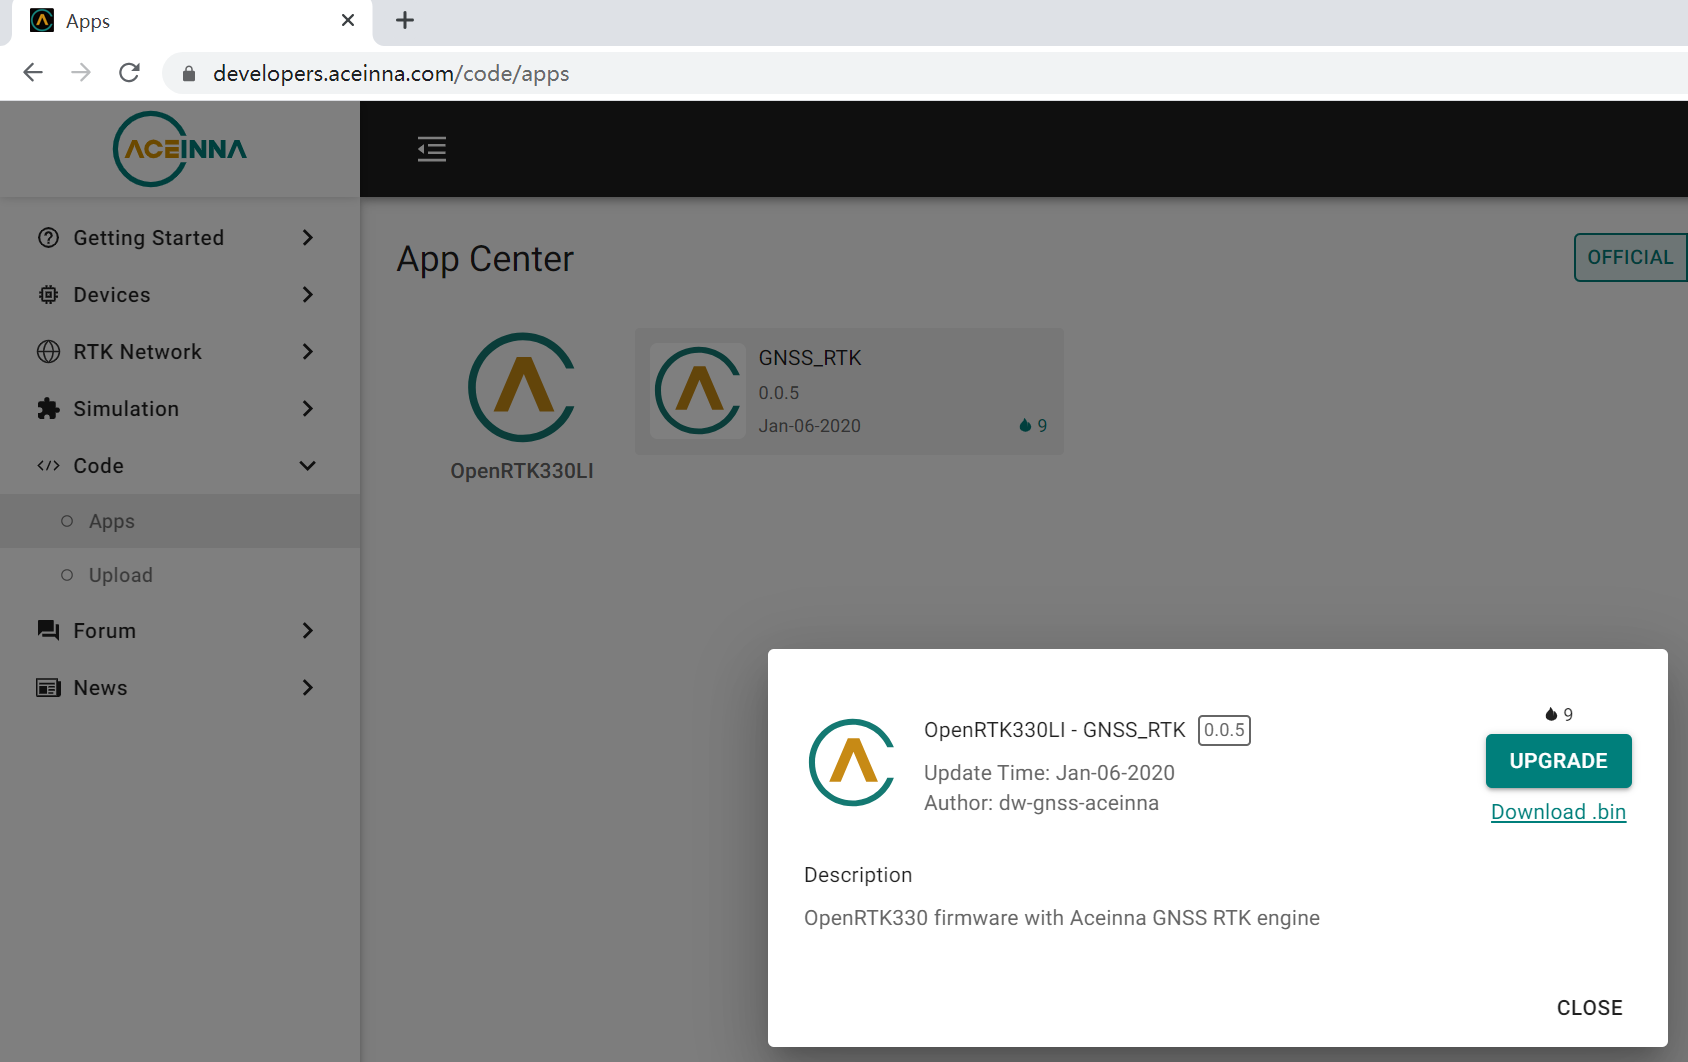
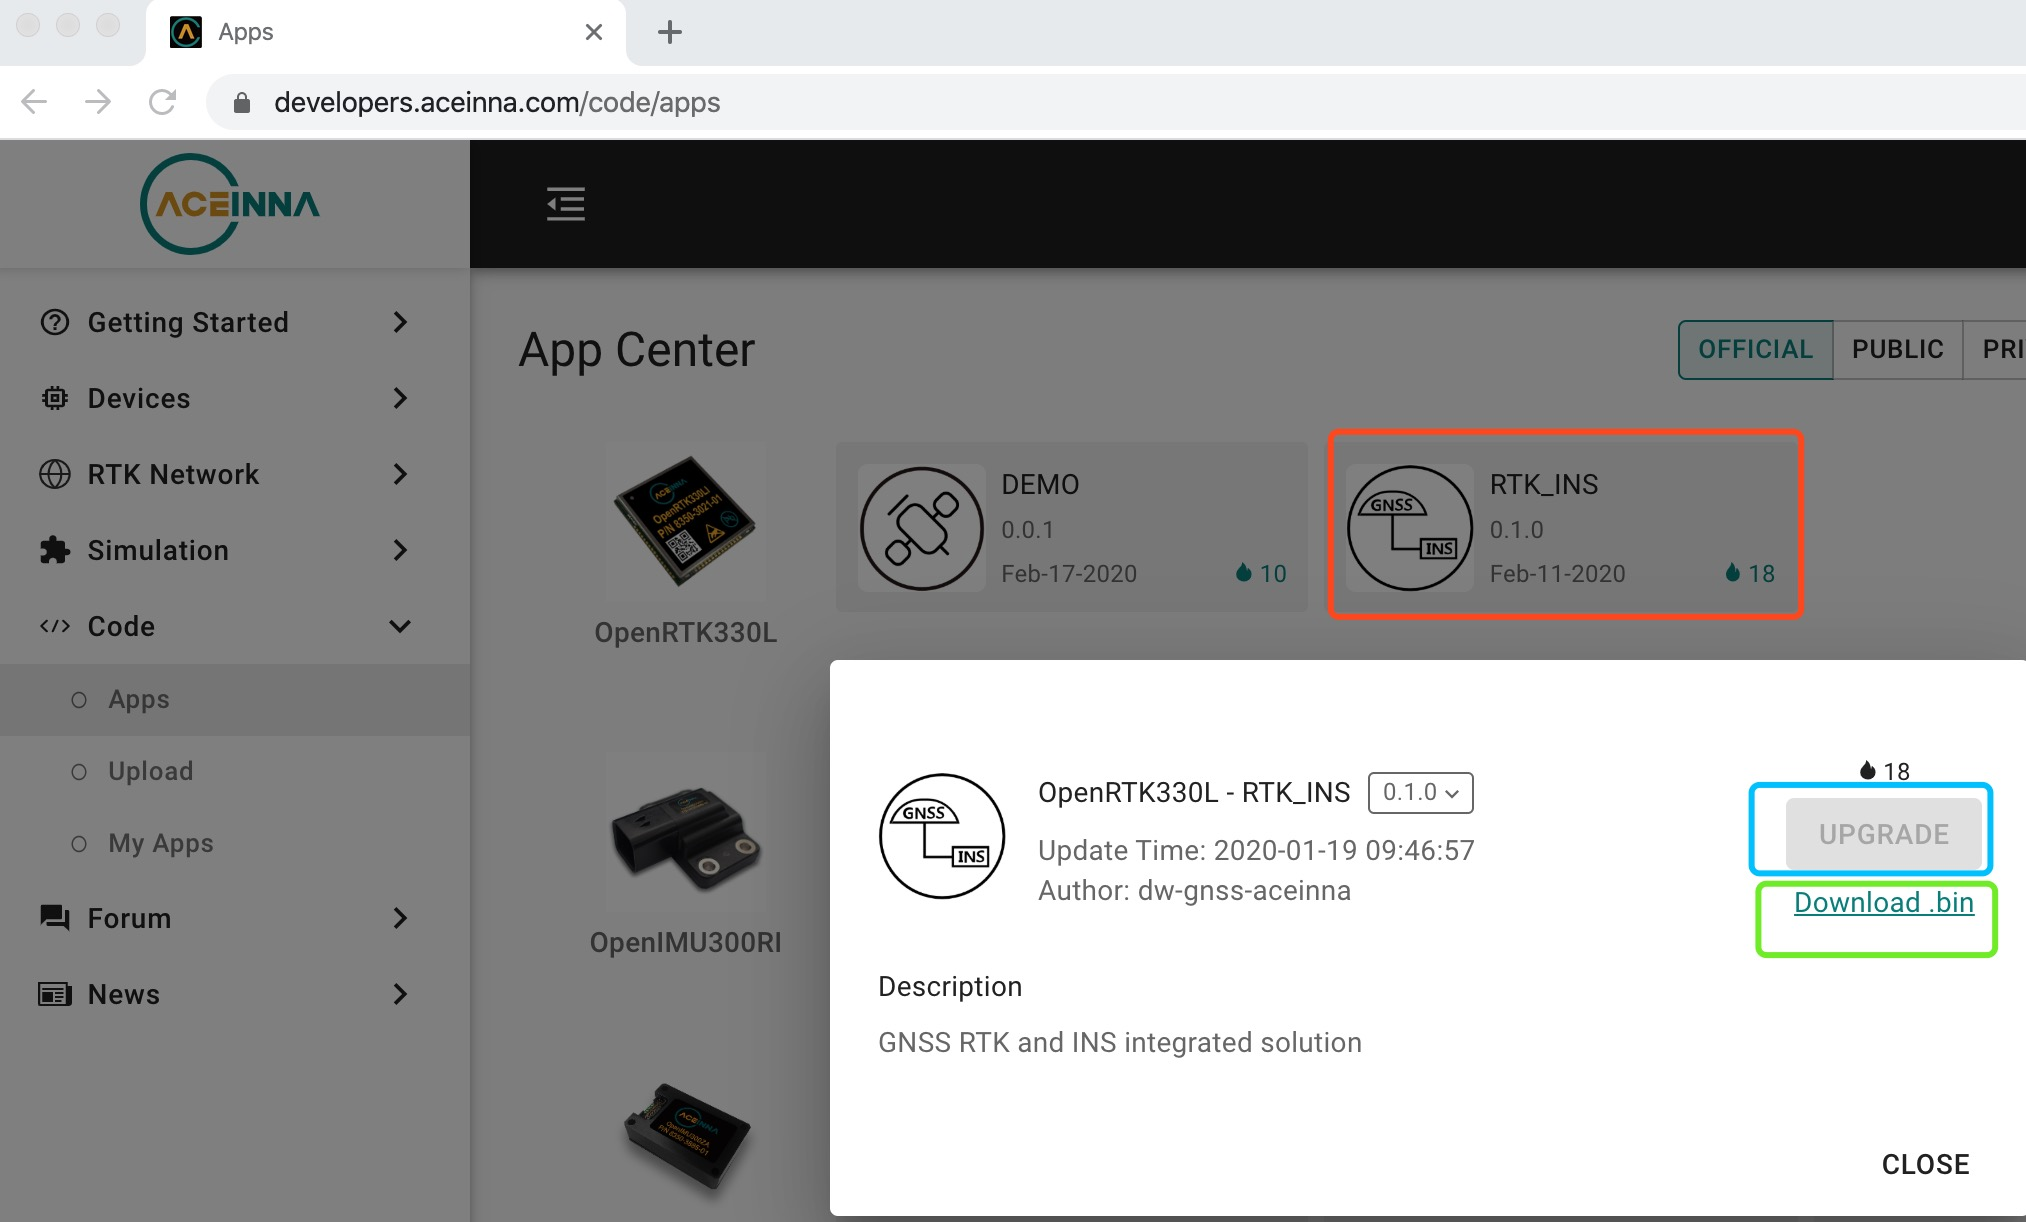
modified EVK setup section, moved firmware build section backwards

diff --git a/setup-OpenRTK.rst b/setup-OpenRTK.rst
@@ -1,35 +1,59 @@
-OpenRTK330 Evaluation Kit Setup
+OpenRTK330 EVK Setup
 =================================
 
 .. contents:: Contents
     :local:
 
-Please refer to the figure below for setting up the OpenRTK330 Evaluation Kit (EVK) with the following steps
+The OpenRTK330 Evalution Kit (EVK) is designed to evaluate the performance of the GNSS/INS positioning with OpenRTK330 module and the OpenRTK software stack. The major components of the OpenRTK330 EVK are shown by the figure below, followed by steps to quickly setup the EVK and install the firmware on the OpenRTK330 module. 
 
 .. figure:: media/EvalKit.png
     :width: 6.0in
     :height: 6.0in
 
-EVK setup and firmware download
+EVK setup and firmware installation
 ~~~~~~~~~~~~~~~~~~~~~~~~~~~~~~~~
 
-*  Unpack the OpenRTK330 EVK, you will find the following items
+Unpack the OpenRTK330 EVK, you will find the following items for the EVK quick setup and firmware installation
 
     * OpenRTK330 Evaluation Board (EVB)
     * ST-Link Debugger
     * Micro USB cable
     * Mounting plate
-* Connect the micro USB port on the OpenRTK330 EVB to a PC via a USB cable, four serial ports will be established on your PC, and the EVB is also powered up by this USB connection. In addition, the EVB can also be powered up directly by a 9-12v DC adapter/generator. In this case, the USB connection is just a data link. The red LED is always on if powered up.
-* Connect the ST-Link debugger to a PC's USB port.
-* Connect the other end of the ST-Link debugger to the SWD/JGAG pin connector on OpenRTK330 EVB.
-* Connect the SMA female connector with a satellite antenna (OpenRTK330 can power on the antenna if passive, otherwise use a DC blocker)
-* Download the OpenRTK330 firmware from Aceinna's developer website https://developers.aceinna.com/code/apps, as shown by
+By factory settings, the ESP32 module on the OpenRTK330 EVB has been programmed and configured to provide Bluetooth wireless connectivity. The Ethernet and CAN drivers are also set.
+
+1. Mount the EVB on the mounting plate for easy operation.
+
+2. Connect the micro USB port on the OpenRTK330 EVB to a PC via a USB cable, four serial ports will be established on your PC, and the EVB is also powered up by this USB connection. Alternatively, the EVB can be powered up directly by a 9-12v DC adapter/generator. In this case, the USB connection is just a data link. The red LED by the micro-USB is always on if powered up.
+
+..
+    2. Connect the ST-Link debugger to a PC's USB port.
+    3. Connect the other end of the ST-Link debugger to the SWD/JGAG pin connector on OpenRTK330 EVB.
+    4. Connect the SMA female connector with a satellite antenna (OpenRTK330 EVB can power on the antenna if passive, otherwise use a DC blocker)
+
+3. Install the OpenRTK330 module firmware from Aceinna's developer website https://developers.aceinna.com/code/apps, as shown by
+
 .. figure:: media/download_openrtk330_firmware.png
     :width: 7.0in
     :height: 4.0in
 
-* Download and install the STM32 ST-LINK Utility software from https://www.st.com/en/development-tools/stsw-link004.html
-* Open the STM32 ST-LINK Utility software, and click the red circled "1" to establish a connection with the OpenRTK EVB
+Click "RTK_INS" App, there are **two options** to install the OpenRTK330 firmware online:
+
+.. figure:: media/app_upgrade.png
+    :width: 7.0in
+    :height: 4.0in
+
+a. (Recommended) The **online upgrade** way: First, go to Aceinna's github page and clone the repo "python-openimu", (https://github.com/Aceinna/python-openimu), and checkout the "ans-devices" branch. Run the OpenRTK Python driver with the following commands:
+
+.. code-block:: python
+
+    cd .\python-openimu
+    python main.py
+
+The python driver automatically scans available USB-serial ports and finds the right com port. If the correct com port is found by the python driver, the "UPGRADE" button circled by cyan rectrangle will be highlighted. Then click the "UPGRADE" button to start the firmware upgrade process and wait it completes.  
+
+b. Download the firmware bin file and flash it into OpenRTK330 module. In order to fullfill this, first install the STM32 ST-LINK Utility software from https://www.st.com/en/development-tools/stsw-link004.htm on your PC. Then open the STM32 ST-LINK Utility software and connect the OpenRTK330 EVB with PC using the ST-LINK debugger,
+
+* Click the red circled "1" to establish a connection with the OpenRTK EVB
 .. figure:: media/st-link_utility_flash_firmware1.png
     :width: 7.0in
     :height: 4.0in
@@ -39,24 +63,15 @@ EVK setup and firmware download
     :width: 5.0in
     :height: 3.0in
 
-At this point, the OpenRTK330 firmware is loaded and ready for GNSS RTK positioning that also requires internet connection to a NTRIP server for GNSS data correction. By default, the ESP32 module on the OpenRTK330 EVB has been programmed and configured to have Bluetooth wireless connectivity, and then connects with Aceinna's OpenRTK Android App for internet connectivity (see next section). Alternatively, the following step can be performed to get internet connectivity
+..
+    At this point, the OpenRTK330 firmware is loaded and ready for GNSS RTK positioning that also requires internet connection to a NTRIP server for GNSS data correction.  and then connects with Aceinna's OpenRTK Android App for internet connectivity (see next section). Alternatively, the following step can be performed to get internet connectivity
 
-*   (optional) Connect the EVB (RJ45 connector) with a network router/gateway with an Ethernet cable, the usage of this connection will also be addressed in next section
+..
+    (optional) Connect the EVB (RJ45 connector) with a network router/gateway with an Ethernet cable, the usage of this connection will also be addressed in next section
 
  
-Online firmware upgrade
+Troubleshoot
 ~~~~~~~~~~~~~~~~~~~~~~~
-There are two steps to upgrade the OpenRTK330 firmware online. First, go to Aceinna's github page and clone the repo "python-openimu", click here (https://github.com/Aceinna/python-openimu), and checkout the "ans-devices" branch. Run the following commands:
 
-.. code-block:: python
 
-    cd .\python-openimu
-    python main.py
-
-The python driver automatically scans available USB-serial ports and finds the right com port.    
-
-Secondly, log in to Aceinna's developer website (https://developers.aceinna.com) and navigate to Code->Apps on the left side menu, click the OpenRTK330 App as shown in the following figure. If the correct com port is found by the python driver, the "upgrade" button is highlighted. Click the "upgrade" button and wait for the firmware upgrade completes.
-
-.. figure:: media/app_upgrade.png
-    :width: 7.0in
-    :height: 4.0in
+The following section elaborate on Aceinna's Cloud Service on Cloud RTK, GNSS base station network and NTRIP server, followed by the section describes two types of user interface to use OpenRTK330 EVK for GNSS/INS real time positioning.

diff --git a/EVB-OpenRTK330LI.rst b/EVB-OpenRTK330LI.rst
@@ -1,10 +1,10 @@
-OpenRTK330LI Eval Kit
+OpenRTK330 EVK
 ===================
 
 .. contents:: Contents
     :local:
     
-The OpenRTK330LI evaluation kit consists of a robust and easy-to-use eval board, a test fixture, the OpenRTK330LI RTK module, and an ST-LINK J-TAG pod.
+The OpenRTK330 EVK consists of a robust and easy-to-use evaluation board, a test fixture, the OpenRTK330LI RTK module, and an ST-LINK J-TAG pod.
 
 .. image:: media/OpenRTKKit.png
     :height: 220

diff --git a/index.rst b/index.rst
@@ -36,11 +36,11 @@ including custom data structures and packets very simple.
     :maxdepth: 1
     :hidden:
     :titlesonly:
-    
-    install
+
     setup-OpenRTK
     Network
     useOpenRTK
+    build_firmware.rst
 
 .. raw:: latex
 

diff --git a/useOpenRTK.rst b/useOpenRTK.rst
@@ -1,4 +1,4 @@
-How to use OpenRTK?
+How to Use OpenRTK?
 ===================
 
 The OpenRTK module acts as a NTRIP client fetching GNSS corrections data

diff --git a/build_firmware.rst b/build_firmware.rst
@@ -1,4 +1,4 @@
-Embeded Development Environment on PC
+Firmware Build from Source
 =====================================
 
 .. contents:: Contents
